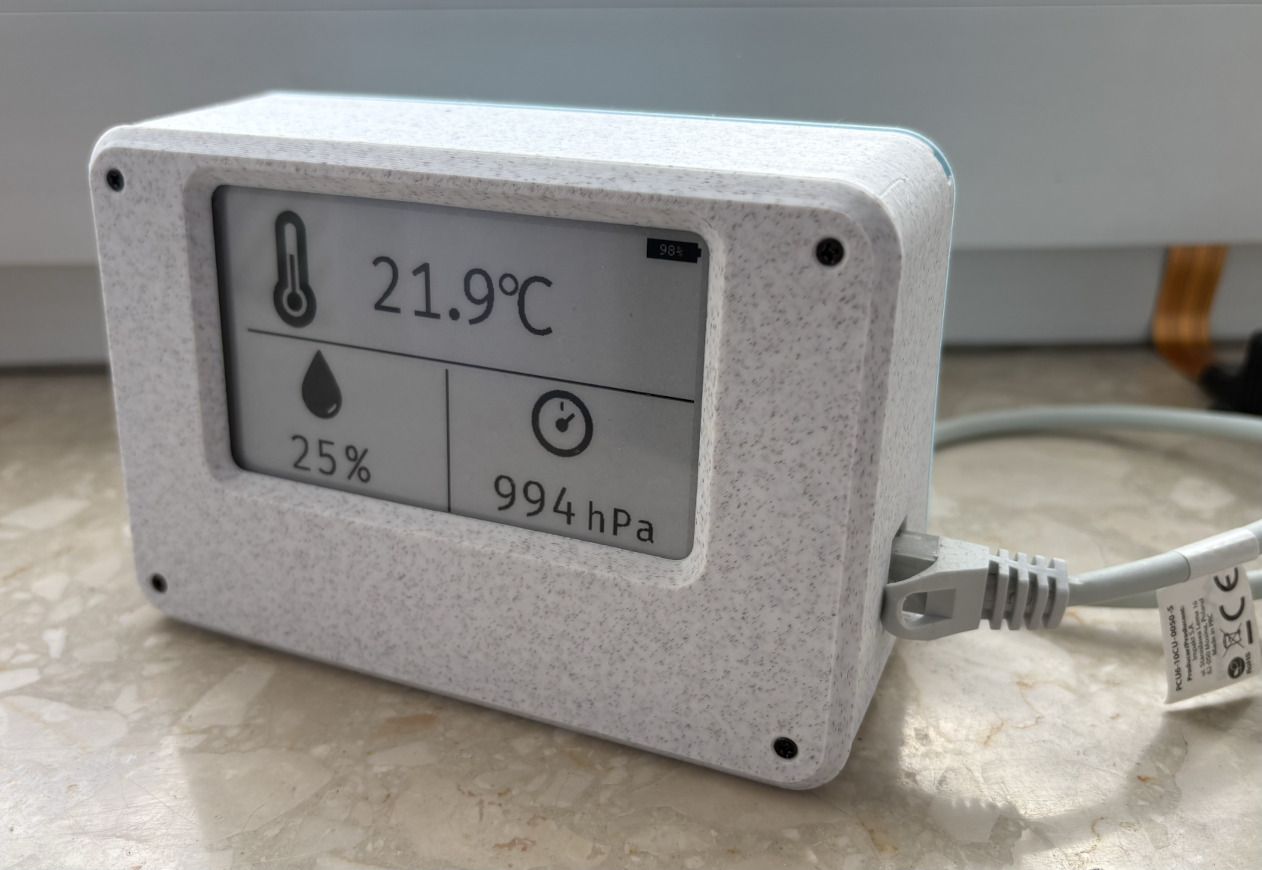
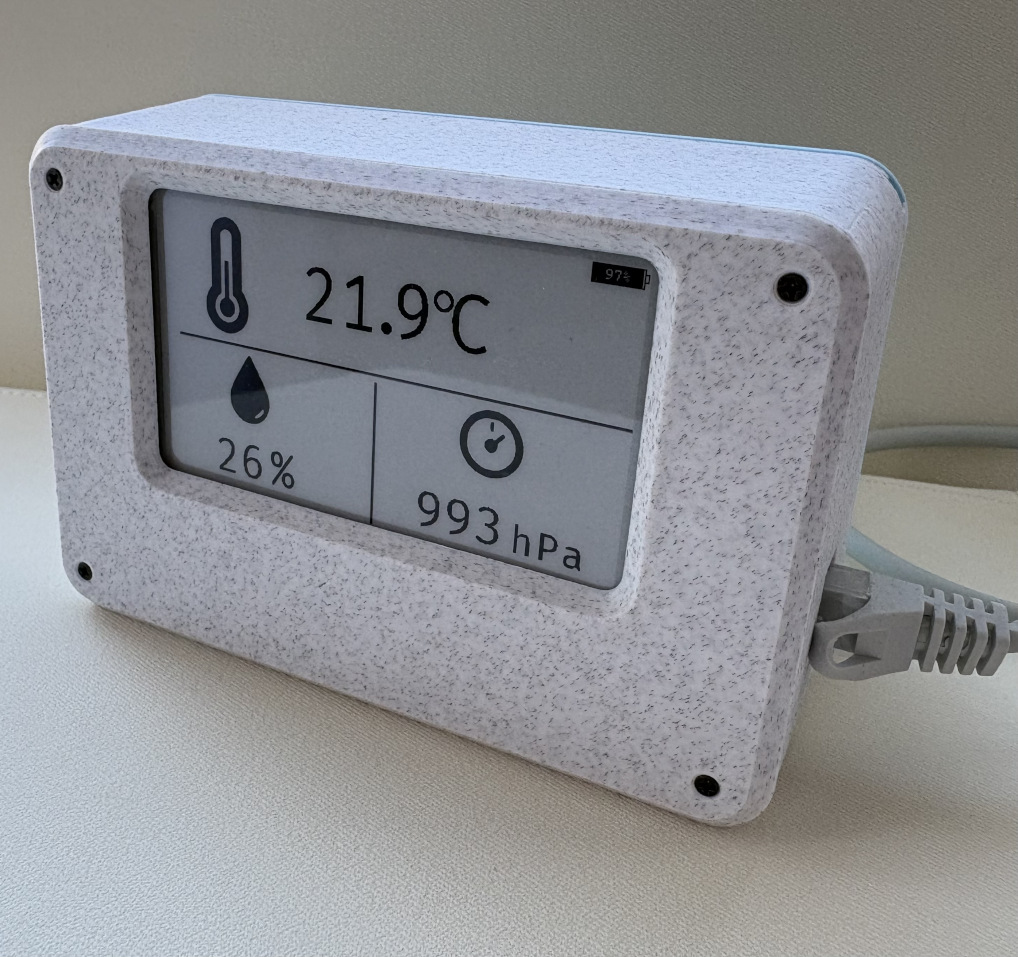
Main menu update;Improve bio section

diff --git a/src/components/Navigation.tsx b/src/components/Navigation.tsx
@@ -2,20 +2,124 @@
 
 import {useTranslations} from 'next-intl';
 import Link from 'next/link';
+import {useEffect, useState} from 'react';
 
 
 export default function Navigation() {
     const t = useTranslations('Navigation');
+    const [activeSection, setActiveSection] = useState<string>('');
+
+    useEffect(() => {
+        const observerOptions = {
+            root: null,
+            rootMargin: '-25% 0px -25% 0px',
+            threshold: [0, 0.1, 0.2, 0.3, 0.4, 0.5, 0.6, 0.7, 0.8, 0.9, 1.0],
+        };
+
+        const intersectingSections = new Set<string>();
+
+        const observerCallback = (entries: IntersectionObserverEntry[]) => {
+            entries.forEach((entry) => {
+                if (entry.isIntersecting) {
+                    intersectingSections.add(entry.target.id);
+                } else {
+                    intersectingSections.delete(entry.target.id);
+                }
+            });
+
+            // Special handling for the very top of the page (About section)
+            if (window.scrollY < 200) {
+                setActiveSection('about');
+                return;
+            }
+
+            // Special handling for the very bottom of the page (Articles section)
+            if (window.innerHeight + window.scrollY >= document.documentElement.scrollHeight - 50) {
+                setActiveSection('articles');
+                return;
+            }
+
+            if (intersectingSections.size > 0) {
+                // If multiple are intersecting, we want to pick the most "relevant" one.
+                // Since we are scrolling vertically, we can check their bounding rects
+                // and pick the one that is closest to the middle of the viewport
+                
+                const sections = Array.from(intersectingSections)
+                    .map(id => ({ id, element: document.getElementById(id) }))
+                    .filter(item => item.element !== null)
+                    .map(item => {
+                        const rect = item.element!.getBoundingClientRect();
+                        const viewportCenter = window.innerHeight / 2;
+                        const sectionCenter = rect.top + rect.height / 2;
+                        const distanceToCenter = Math.abs(viewportCenter - sectionCenter);
+                        return { id: item.id, distanceToCenter, rect };
+                    });
+
+                if (sections.length > 0) {
+                    // Pick the section whose center is closest to the viewport center
+                    sections.sort((a, b) => a.distanceToCenter - b.distanceToCenter);
+                    setActiveSection(sections[0].id);
+                }
+            }
+        };
+
+        const observer = new IntersectionObserver(observerCallback, observerOptions);
+
+        const sections = ['about', 'work-experience', 'projects', 'articles'];
+        sections.forEach((id) => {
+            const section = document.getElementById(id);
+            if (section) {
+                observer.observe(section);
+            }
+        });
+
+        const handleScroll = () => {
+            const bottomOfPage = window.innerHeight + window.scrollY >= document.documentElement.scrollHeight - 50;
+            if (bottomOfPage) {
+                setActiveSection('articles');
+                return;
+            }
+
+            if (window.scrollY < 200) {
+                setActiveSection('about');
+                return;
+            }
+        };
+
+        window.addEventListener('scroll', handleScroll);
+
+        return () => {
+            window.removeEventListener('scroll', handleScroll);
+            sections.forEach((id) => {
+                const section = document.getElementById(id);
+                if (section) {
+                    observer.unobserve(section);
+                }
+            });
+        };
+    }, []);
+
+    const getLinkClassName = (href: string) => {
+        const baseClass = "hover:text-navigation-hover transition-colors px-3 py-1";
+        const activeClass = activeSection === href.replace('#', '') ? "px-2.5 py-1 rounded-full  text-basic bg-skill-bar" : "text-navigation";
+        
+        return `${baseClass} ${activeClass}`;
+    };
 
     return (
-        <nav className="flex flex-row justify-end gap-3 w-full mb-6 text-navigation cursor-pointer">
-            <Link href="#about"
-                  className={`hover:text-navigation-hover after:text-navigation after:inline-block after:ml-3 after:content-['::'] after:w-auto`}>{t('link-home')}</Link>
-            <Link href="#work-experience"
-                  className={`hover:text-navigation-hover after:text-navigation after:inline-block after:ml-3 after:content-['::'] after:w-auto`}>{t('link-experience')}</Link>
-            <Link href="#projects"
-                  className={`hover:text-navigation-hover after:text-navigation after:inline-block after:ml-3 after:content-['::'] after:w-auto`}>{t('link-projects')}</Link>
-            <Link href="#articles" className="hover:text-navigation-hover">{t('link-articles')}</Link>
+        <nav className="sticky top-0 z-50 backdrop-blur-md border-b border-footer flex flex-row justify-end gap-1 md:gap-3 w-full mb-6 cursor-pointer text-sm md:text-base py-4 px-4">
+            <Link href="#about" className={getLinkClassName("#about")}>
+                {t('link-home')}
+            </Link>
+            <Link href="#work-experience" className={getLinkClassName("#work-experience")}>
+                {t('link-experience')}
+            </Link>
+            <Link href="#projects" className={getLinkClassName("#projects")}>
+                {t('link-projects')}
+            </Link>
+            <Link href="#articles" className={getLinkClassName("#articles")}>
+                {t('link-articles')}
+            </Link>
         </nav>
     );
 }

diff --git a/src/components/WorkExperience.tsx b/src/components/WorkExperience.tsx
@@ -33,7 +33,7 @@ const jobs: Job[] = [
         period: "2015 – 2018",
         tags: ["PHP", "Magento 1", "Magento 2", "MySQL"],
         bullets: [
-            "Served as the primary developer responsible for a live e-commerce store selling lighting products — owning feature development, bug fixes, and day-to-day platform health end-to-end.",
+            "Served as the primary developer responsible for a live e-commerce store selling lighting products — owning feature development, bug fixes, and deployments.",
             "Planned and executed a full platform migration from Magento 1 to Magento 2, including data mapping, custom module rewriting, and cutover strategy — a technically demanding upgrade that modernized the entire codebase.",
         ],
     },
@@ -44,7 +44,7 @@ const jobs: Job[] = [
         tags: ["PHP", "Magento", "Ruby on Rails"],
         bullets: [
             "Maintained and extended multiple Magento-based e-commerce sites, handling a diverse client portfolio with varying business requirements, custom extensions, and third-party integrations.",
-            "Developed Ruby on Rails applications for a Canadian rail operator's ticket sales platform — gaining cross-language experience and exposure to transactional, booking-flow systems with real-time availability constraints.",
+            "Developed Ruby on Rails applications for a Canadian rail operator's ticket sales platform.",
         ],
     },
     {
@@ -53,8 +53,8 @@ const jobs: Job[] = [
         period: "2009 – 2011",
         tags: ["PHP", "CSS", "Zend", "knockout.js"],
         bullets: [
-            "Built and launched a submission management platform for an international design competition spanning 4 countries, processing around 300 entries per year. The application remained in active production use for 4 years — a strong signal of reliability and long-term fit to the client's operational needs.",
-            "Developed Ruby on Rails applications for a Canadian rail operator's ticket sales platform — gaining cross-language experience and exposure to transactional, booking-flow systems with real-time availability constraints.",
+            "Built and launched a submission management platform for an international design competition spanning 4 countries, processing around 300 entries per year. The application remained in active production use for 4 years.",
+            "Created a small webapp for managing sidecar.xml from Adobe Digital Publishing Suite for small publishing company."
         ],
     }
 ]
@@ -118,7 +118,7 @@ export default function WorkExperience() {
     const t = useTranslations('WorkExperience');
 
     return (
-        <div id="experience" className="max-w-full">
+        <div className="max-w-full">
             <div
                 ref={headingRef}
                 className="mb-14 transition-all duration-700 ease-out"

diff --git a/src/components/Projects.tsx b/src/components/Projects.tsx
@@ -82,11 +82,10 @@ const projects: Project[] = [
         title: "Mekster",
         category: "E-Commerce Platform",
         type: "software",
-        description: "A feature-rich Magento 2 e-commerce platform for an automotive parts and tyre retailer, built on a Hyvä theme. Work spanned the full stack — from a deeply customised Algolia search integration with vehicle fitment filtering, to purchase order cost management.",
+        description: "A feature-rich Magento 2 e-commerce platform for an automotive parts retailer, built on a Hyvä theme. Work spanned the full stack — from a deeply customised Algolia search integration with vehicle fitment filtering, to purchase order cost management.",
         highlights: [
             {text: "Algolia InstantSearch integration with vehicle fitment filtering, custom routing, Insights event forwarding, and a dedicated landing page"},
-            {text: "Car registration and garage-based tyre lookup with licence plate search and tyre size filtering on category pages"},
-            {text: "Purchase order cost tracking with invoice cost calculation, multi-currency support, and admin grid improvements"},
+            {text: "Car registration and garage-based tyre lookup with licence plate search for vehicle fitment search"},
             {text: "Performance optimisations: lazy-loading Algolia widgets by viewport, improved CLS on PDP, and a product ranking field based on margin"},
             {text: "Hyvä frontend improvements: hero slider, recently viewed widget with wishlist and add-to-cart, frequently bought together component, and mobile UX fixes"},
         ],
@@ -326,7 +325,7 @@ export default function Projects() {
     }, [gallery]);
 
     return (
-        <section id="projects" className="w-full">
+        <section className="w-full">
             <div
                 ref={headingRef}
                 className="mb-12 transition-all duration-700 ease-out"

diff --git a/app/layout.tsx b/app/layout.tsx
@@ -43,7 +43,10 @@ export default async function RootLayout({
         <NextIntlClientProvider messages={messages}>
           <div className="flex flex-col flex-1 items-center justify-center font-sans">
             <main className="flex flex-1 w-full max-w-4xl flex-col items-center justify-start pb-16 px-8 lg:pb-32 lg:px-16 sm:items-start">
-              <header className="pt-32 pb-8 text-right w-full text-4xl font-audiowide">{t('page_title')}</header>
+              <header className="pt-20 pb-8 text-right w-full text-[2.5rem] font-audiowide">
+                {t('page_title')}
+                <span className="text-basic text-xl block">{t('page_title_description')}</span>
+              </header>
               <Navigation />
               {children}
             </main>

diff --git a/app/globals.css b/app/globals.css
@@ -37,3 +37,6 @@ body {
   color: var(--foreground);
   font-family: Arial, Helvetica, sans-serif;
 }
+html {
+  scroll-padding-top: 64px;
+}

diff --git a/src/components/Skills.tsx b/src/components/Skills.tsx
@@ -122,7 +122,7 @@ export default function Skills() {
     const t = useTranslations('Skills');
 
     return (
-        <section id="skills" className="w-full">
+        <section className="w-full">
             <div
                 ref={headingRef}
                 className="mb-6 transition-all duration-700 ease-out"